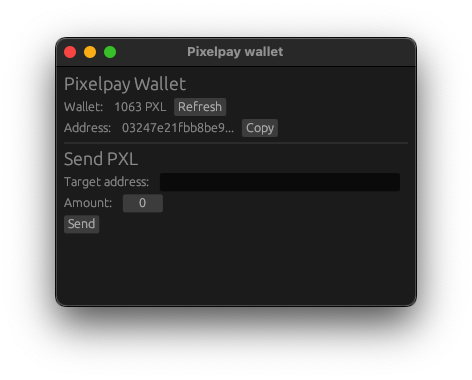
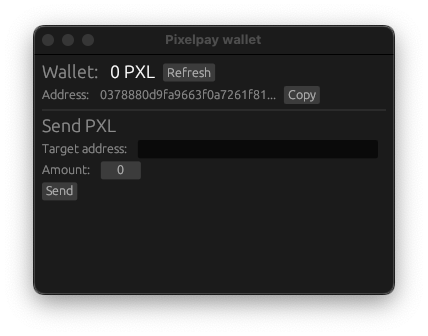
Update ui

Changed region(s): [[0.0607, 0.0595, 0.9416, 0.9226]]

diff --git a/src/main.rs b/src/main.rs
@@ -20,10 +20,13 @@ impl eframe::App for MyApp {
                 });
             }
 
-            ui.heading("Pixelpay Wallet");
             ui.horizontal(|ui| {
-                ui.label("Wallet: ");
-                ui.label(format!("{} PXL", self.wallet));
+                ui.heading("Wallet: ");
+                ui.label(
+                    egui::RichText::new(format!("{} PXL", self.wallet))
+                        .heading()
+                        .color(egui::Color32::from_rgb(255, 255, 255)),
+                );
                 ui.horizontal(|ui| {
                     if ui.button("Refresh").clicked() {
                         self.get_balance();
@@ -33,7 +36,7 @@ impl eframe::App for MyApp {
 
             ui.horizontal(|ui| {
                 ui.label("Address: ");
-                ui.label(self.address.to_string().split_at(15).0.to_owned() + "...");
+                ui.label(self.address.to_string().split_at(25).0.to_owned() + "...");
                 if ui.button("Copy").clicked() {
                     self.copy_address();
                 }
@@ -74,3 +77,4 @@ fn main() -> Result<(), eframe::Error> {
         Box::new(|_cc| Box::<MyApp>::default()),
     )
 }
+
